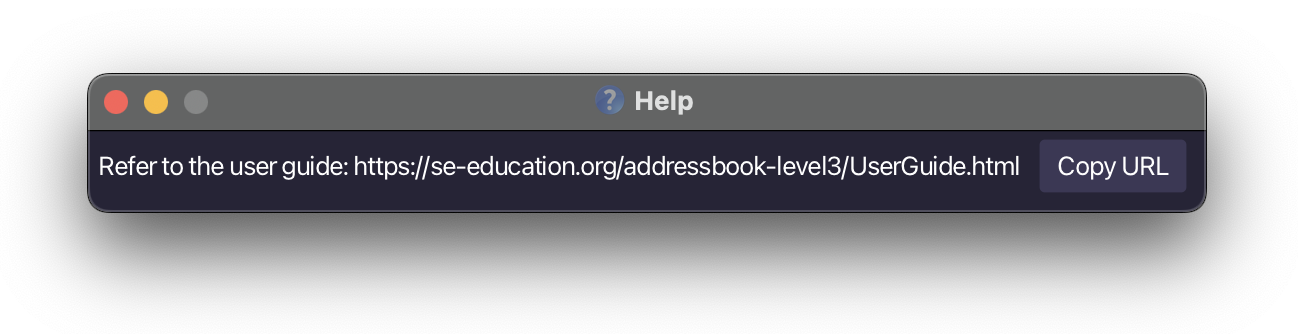
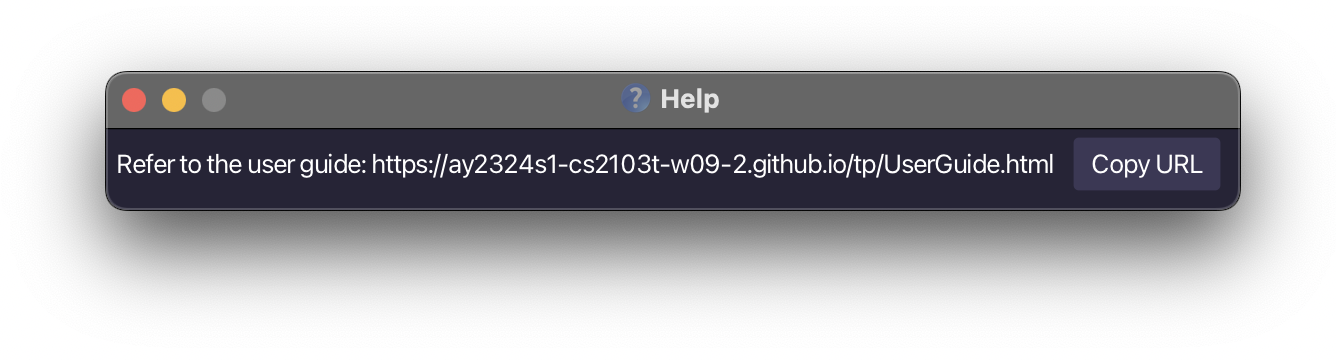
1. Update DG Logic, Model 2. Add DG portion for Date-time Parsing 3. Add respective activity diagram and sequence diagram to explain how the parsing works 4. Update User Guide Help Message PNG

diff --git a/src/main/java/seedu/address/logic/parser/ParserUtil.java b/src/main/java/seedu/address/logic/parser/ParserUtil.java
@@ -13,8 +13,6 @@ import seedu.address.logic.parser.exceptions.ParseException;
 import seedu.address.model.event.EventDescription;
 import seedu.address.model.event.EventName;
 import seedu.address.model.event.Location;
-import seedu.address.model.event.TimeEnd;
-import seedu.address.model.event.TimeStart;
 import seedu.address.model.finance.Amount;
 import seedu.address.model.finance.Description;
 import seedu.address.model.finance.FinanceListType;
@@ -164,33 +162,6 @@ public class ParserUtil {
         return new EventName(trimmedEventName);
     }
 
-    /**
-     * Parses a {@code String timeStart} into an {@code TimeStart}.
-     * Leading and trailing whitespaces will be trimmed.
-     *
-     * @throws ParseException if the given {@code timeStart} is invalid.
-     */
-    public static TimeStart parseTimeStart(String timeStart) throws ParseException {
-        String trimmedTimeStart = timeStart.trim();
-        if (!DateTimeParser.isValidDateTimeFormat(trimmedTimeStart)) {
-            throw new ParseException(TimeStart.MESSAGE_CONSTRAINTS);
-        }
-        return new TimeStart(trimmedTimeStart);
-    }
-
-    /**
-     * Parses a {@code String timeEnd} into an {@code TimeEnd}.
-     * Leading and trailing whitespaces will be trimmed.
-     *
-     * @throws ParseException if the given {@code timeEnd} is invalid.
-     */
-    public static TimeEnd parseTimeEnd(String timeEnd) throws ParseException {
-        String trimmedTimeEnd = timeEnd.trim();
-        if (!DateTimeParser.isValidDateTimeFormat(trimmedTimeEnd)) {
-            throw new ParseException(TimeEnd.MESSAGE_CONSTRAINTS);
-        }
-        return new TimeEnd(trimmedTimeEnd);
-    }
 
     /**
      * Parses a {@code String timeDue} into an {@code TimeDue}.

diff --git a/docs/DeveloperGuide.md b/docs/DeveloperGuide.md
@@ -115,7 +115,8 @@ Here are the other classes in `Logic` (omitted from the class diagram above) tha
 <puml src="diagrams/ParserClasses.puml" width="600"/>
 
 How the parsing works:
-* When called upon to parse a user command, the respective Parsers (i.e. `ContactParser`, `FinanceParser`, `EventParser`) class creates an `XYZCommandParser` (`XYZ` is a placeholder for the specific command name e.g., `AddContactCommandParser`) which uses the other classes shown above to parse the user command and create a `XYZCommand` object (e.g., `AddContactCommand`) which the `ContactParser` returns back as a `Command` object.
+* When called upon to parse a user command, the respective Parsers (i.e. `ContactParser`, `FinanceParser`, `EventParser`) class creates an `XYZCommandParser` (`XYZ` is a placeholder for the specific command name e.g., `AddEventCommandParser`) which uses the other classes shown above to parse the user command and create a `XYZCommand` object (e.g., `AddContactCommand`) which the `ContactParser` returns back as a `Command` object.
+  * `DateTimeParser` is included here to show all Parser Classes. However, only a few Command Parsers interact with the `DateTimeParser` (when date-time inputs are involved).
 * All `XYZCommandParser` classes (e.g., `AddContactCommandParser`, `DeleteFinanceCommandParser`, ...) inherit from the `Parser` interface so that they can be treated similarly where possible e.g, during testing.
 
 ### Model component
@@ -306,6 +307,104 @@ report. The method returns the summary as a string which is then passed as an ar
 
 **Step 5.** The summary report is then displayed in the status box. The list of finances displayed in the finance tab will
 also update to only show finances related to the given client. 
+
+### Date-time Parsing
+
+Other than the basic understanding of how the Date-time inputs are determined, the rules and assumptions it has. [Read here for more info: Accepted Date-time Formats](https://ay2324s1-cs2103t-w09-2.github.io/tp/UserGuide.html#accepted-date-time-formats).
+It would be important to understand the inner-workings of the date-time parser to appreciate certain design choices made when implementing features.
+
+#### Motivations Behind the Design
+
+The choice to implement a more advanced date-time parser than what is available in the Java `LocalDateTime` library or other external libraries is:
+1. **Convenient** and **faster** input of date-time input.
+2. **More conventional** date-time formats (akin to verbal communication)
+3. **Smarter** date-time parser that helps **predict** dates or time that are *usually* assumed.
+4. date-time parser that is **fast** and **lean** – does not require unnecessarily long inputs from user that may be ambiguous.
+
+##### Accepting More `DateTimeFormatter` Formats
+
+First, we start off by accepting more formats of `Date` and `Time` that Java's `LocalDateTime` library provides (Numbered Date-time formats). All summarised in the [User Guide](https://ay2324s1-cs2103t-w09-2.github.io/tp/UserGuide.html#accepted-date-time-formats).
+
+Parsing for this is done by "brute force" handled by the number of elements the date-time format has (the reason it is done this way will be explained in a later section):
+
+To illustrate how parsing of multiple formats is done, the sequence diagram shows `parseTwoElementsNumberTimeFormat()`, one of the methods that parses multiple formats, and how it matches the input with a format and parses it:
+
+<puml src="diagrams/ExampleParsingNumberFormats.puml" alt="ExampleParsingNumberFormats" />
+
+In words:
+1. `DateTimeParser` will call the relevant `private static` method to parse the respective input (in this case `parseTwoElementsNumberTimeFormat()`)
+2. It will check if the input is of the right length. (Omitted above as it is not as important).
+3. For this particular example, there are 3 formats of `LocalTime`, the program will loop through each format. (`h a`, `h:mm a` and `h.mm a`)
+4. A `DateTimeFormatter` is built to be case-insensitive, with the format at that point of execution and to language English (relevant to formats that have letters).
+5. `LocalTime.parse()` is called with the `DateTimeFormatter` and the program attempts to parse the input with the specified format.
+6. If parse is successful, a `LocalTime` instance is returned.
+7. Else, the program catches the exception and continues.
+8. If nothing is returned after all formats have been looped through, the method returns `null` to indicate a failed parse.
+
+This method is repeated with the other Numbered Time and Numbered Date formats. 
+
+> Of note as well, is the formats that do not contain year inputs e.g. `d/M`, `d MMM`, etc. In these cases, the year will be set to the current year that the method is called.
+> This is done with building the `DateTimeFormatter` with the year using method `parseDefaulting(ChronoField.YEAR, getToday().getYear())`
+
+With this, this will enable date-time inputs to be **faster** and **more convenient** as users have a wide variety of formats to choose from.
+
+##### Accepting More Formats - Natural Language
+
+Another feature we wanted to achieve is for users to use natural language formats that maybe not be as easily expressed in a date or a time.
+Formats that are usually used when conversing. As there are a lot of possibilities it is impossible to accept all forms, we had to sieve out several more important formats that Freelancers may use more often.
+
+**Common references of time**: noon, midnight, in _ minutes.
+
+**Common references of dates**: tomorrow, next week, next Monday, in _ weeks.
+
+**Common references that imply both date and time**: now, _ from now.
+
+These make sense as scheduling meetings with a client may sound like: *"Let's follow-up next week, 4:30pm?"*
+
+Similarly, we can achieve this by parsing these inputs based on the number of words it has. For natural language formats as you can from the [User Guide](https://ay2324s1-cs2103t-w09-2.github.io/tp/UserGuide.html#accepted-date-time-formats),
+has formats that correspond to the number of words (For example, 3 word date formats are in the formt of "in _ days/months/years"). Hence, we parsed these inputs using switch cases.
+
+To explain, we have described the implementation of one of methods that parse english date time formats, `parseThreeElementsEnglishDateFormat()` in the activity diagram below:
+
+<puml src="diagrams/EnglishFormatsParsingActivityDiagram.puml" alt="ParsingAD" />
+
+##### Parsing Date-Time Instance
+
+Now we have built the base of how to parse Date, Time and Date Time inputs (both Numbered and Natural Language formats) by their elements. We need a master method to pull all these together. 
+Given a string, how does the program choose the right kind of methods to parse the input?
+
+The `parseDateTimeInstance()` method brings together all of this to parse any given string.
+
+To demonstrate how a string is parsed into a `LocalDateTime` value given that it can be any combination of `Date`, `Time` or `DateTime` formats. We use the below activity diagram to demonstrate:
+
+<puml src="diagrams/ParseDateTimeInstanceAD.puml" alt="DTIAD" />
+
+To further explain what happens within a "Parse X Inputs" we take a look at one of the implementations, `parseThreeElements`.
+
+<puml src="diagrams/ParseThreeElementsAD.puml" alt="ParseThreeElementsActivityDiagram" />
+
+As you can see this is how given the number of words of input, date-time can be parsed even if input can be a date, time or date-time.
+
+**On a higher level, a general flow will look something like this:** (note that this is greatly simplified)
+
+<puml src="diagrams/InstanceDateTimeHighLevel.puml" alt="InstanceDateTimeHighLevel" />
+
+##### Parsing Smartly
+
+In one the above diagram where we talked about `parseThreeElements()` we got a glimpse of how the parser parses date-time inputs smartly.
+
+In the event either the date or time is not specified, the parser will assume with a "future-bias" prediction on the unspecified date or time.
+
+For example, when time is not specified, it will be set to the 00:00, signifying the start of the day. Likewise, if the date is not specified, the next occurrence of the date with the specified time will be chosen.
+
+****Parsing Durations****
+
+This is further shown when parsing durations using `parseDateTimeDuration()` 
+1. When parsing `<TIME>` to `<TIME>` only durations, date will be set to next occurrence of the end time. (Future-Bias assumptions)
+2. When parsing `<DATE>` to `<DATE>` only durations, time will be set from 00:00 for start date and 23:59 for end date. (Assuming whole day durations)
+3. When parsing `<DATE><TIME>` to `<TIME>`, time will be assumed to be the same date as the start `<DATE>`. (Conventional way of communicating e.g. Next Monday 4-6pm)
+
+For more information on the assumptions that the parser makes when there are missing `<DATE>` or `<TIME>` inputs for either start or end time, you can check out the User guide section for this [here](https://ay2324s1-cs2103t-w09-2.github.io/tp/UserGuide.html#accepted-date-time-combinations-of-s-and-e).
 
 --------------------------------------------------------------------------------------------------------------------
 

diff --git a/docs/UserGuide.md b/docs/UserGuide.md
@@ -21,8 +21,9 @@ If you are a freelancer who is looking to optimize your workflow, look no furthe
 
 **ADVANCED USER?** Jump ahead to the [Command Summary](#command-summary) to get an overview of all the commands!
 
+--------------------------------------------------------------------------------------------------------------------
+
 <!-- * Table of Contents -->
-<page-nav-print />
 
 --------------------------------------------------------------------------------------------------------------------
 
